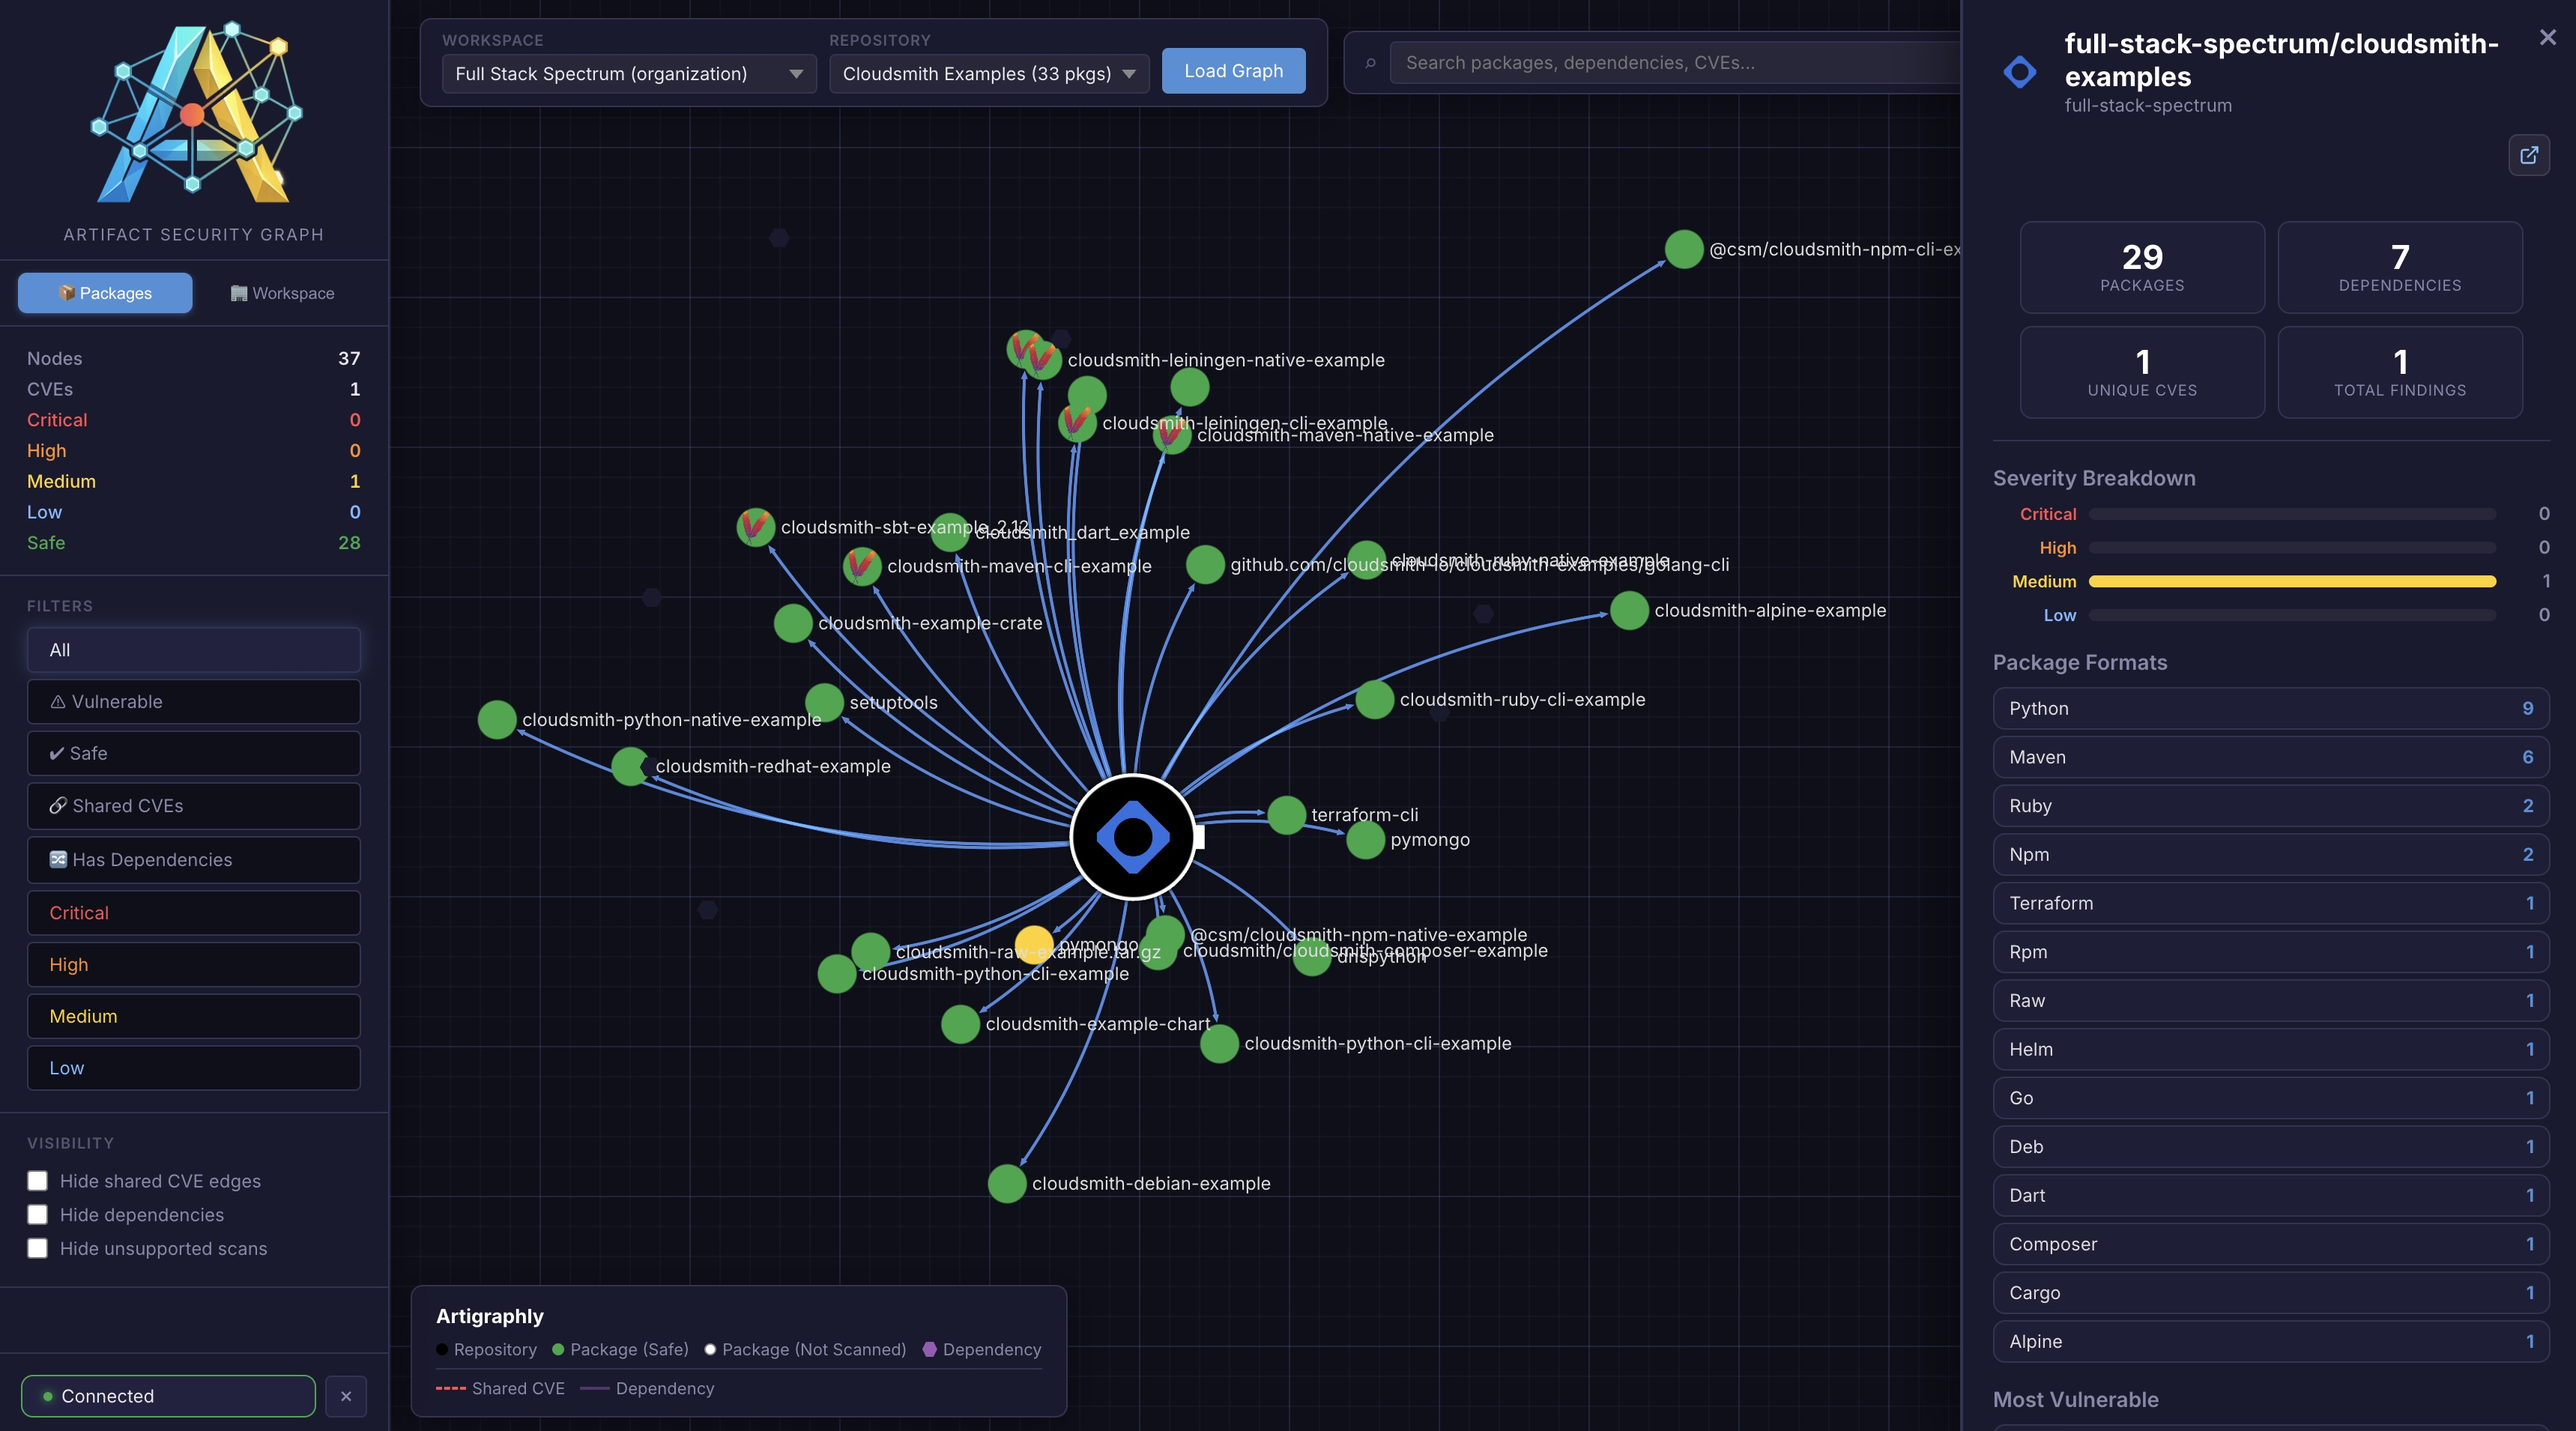
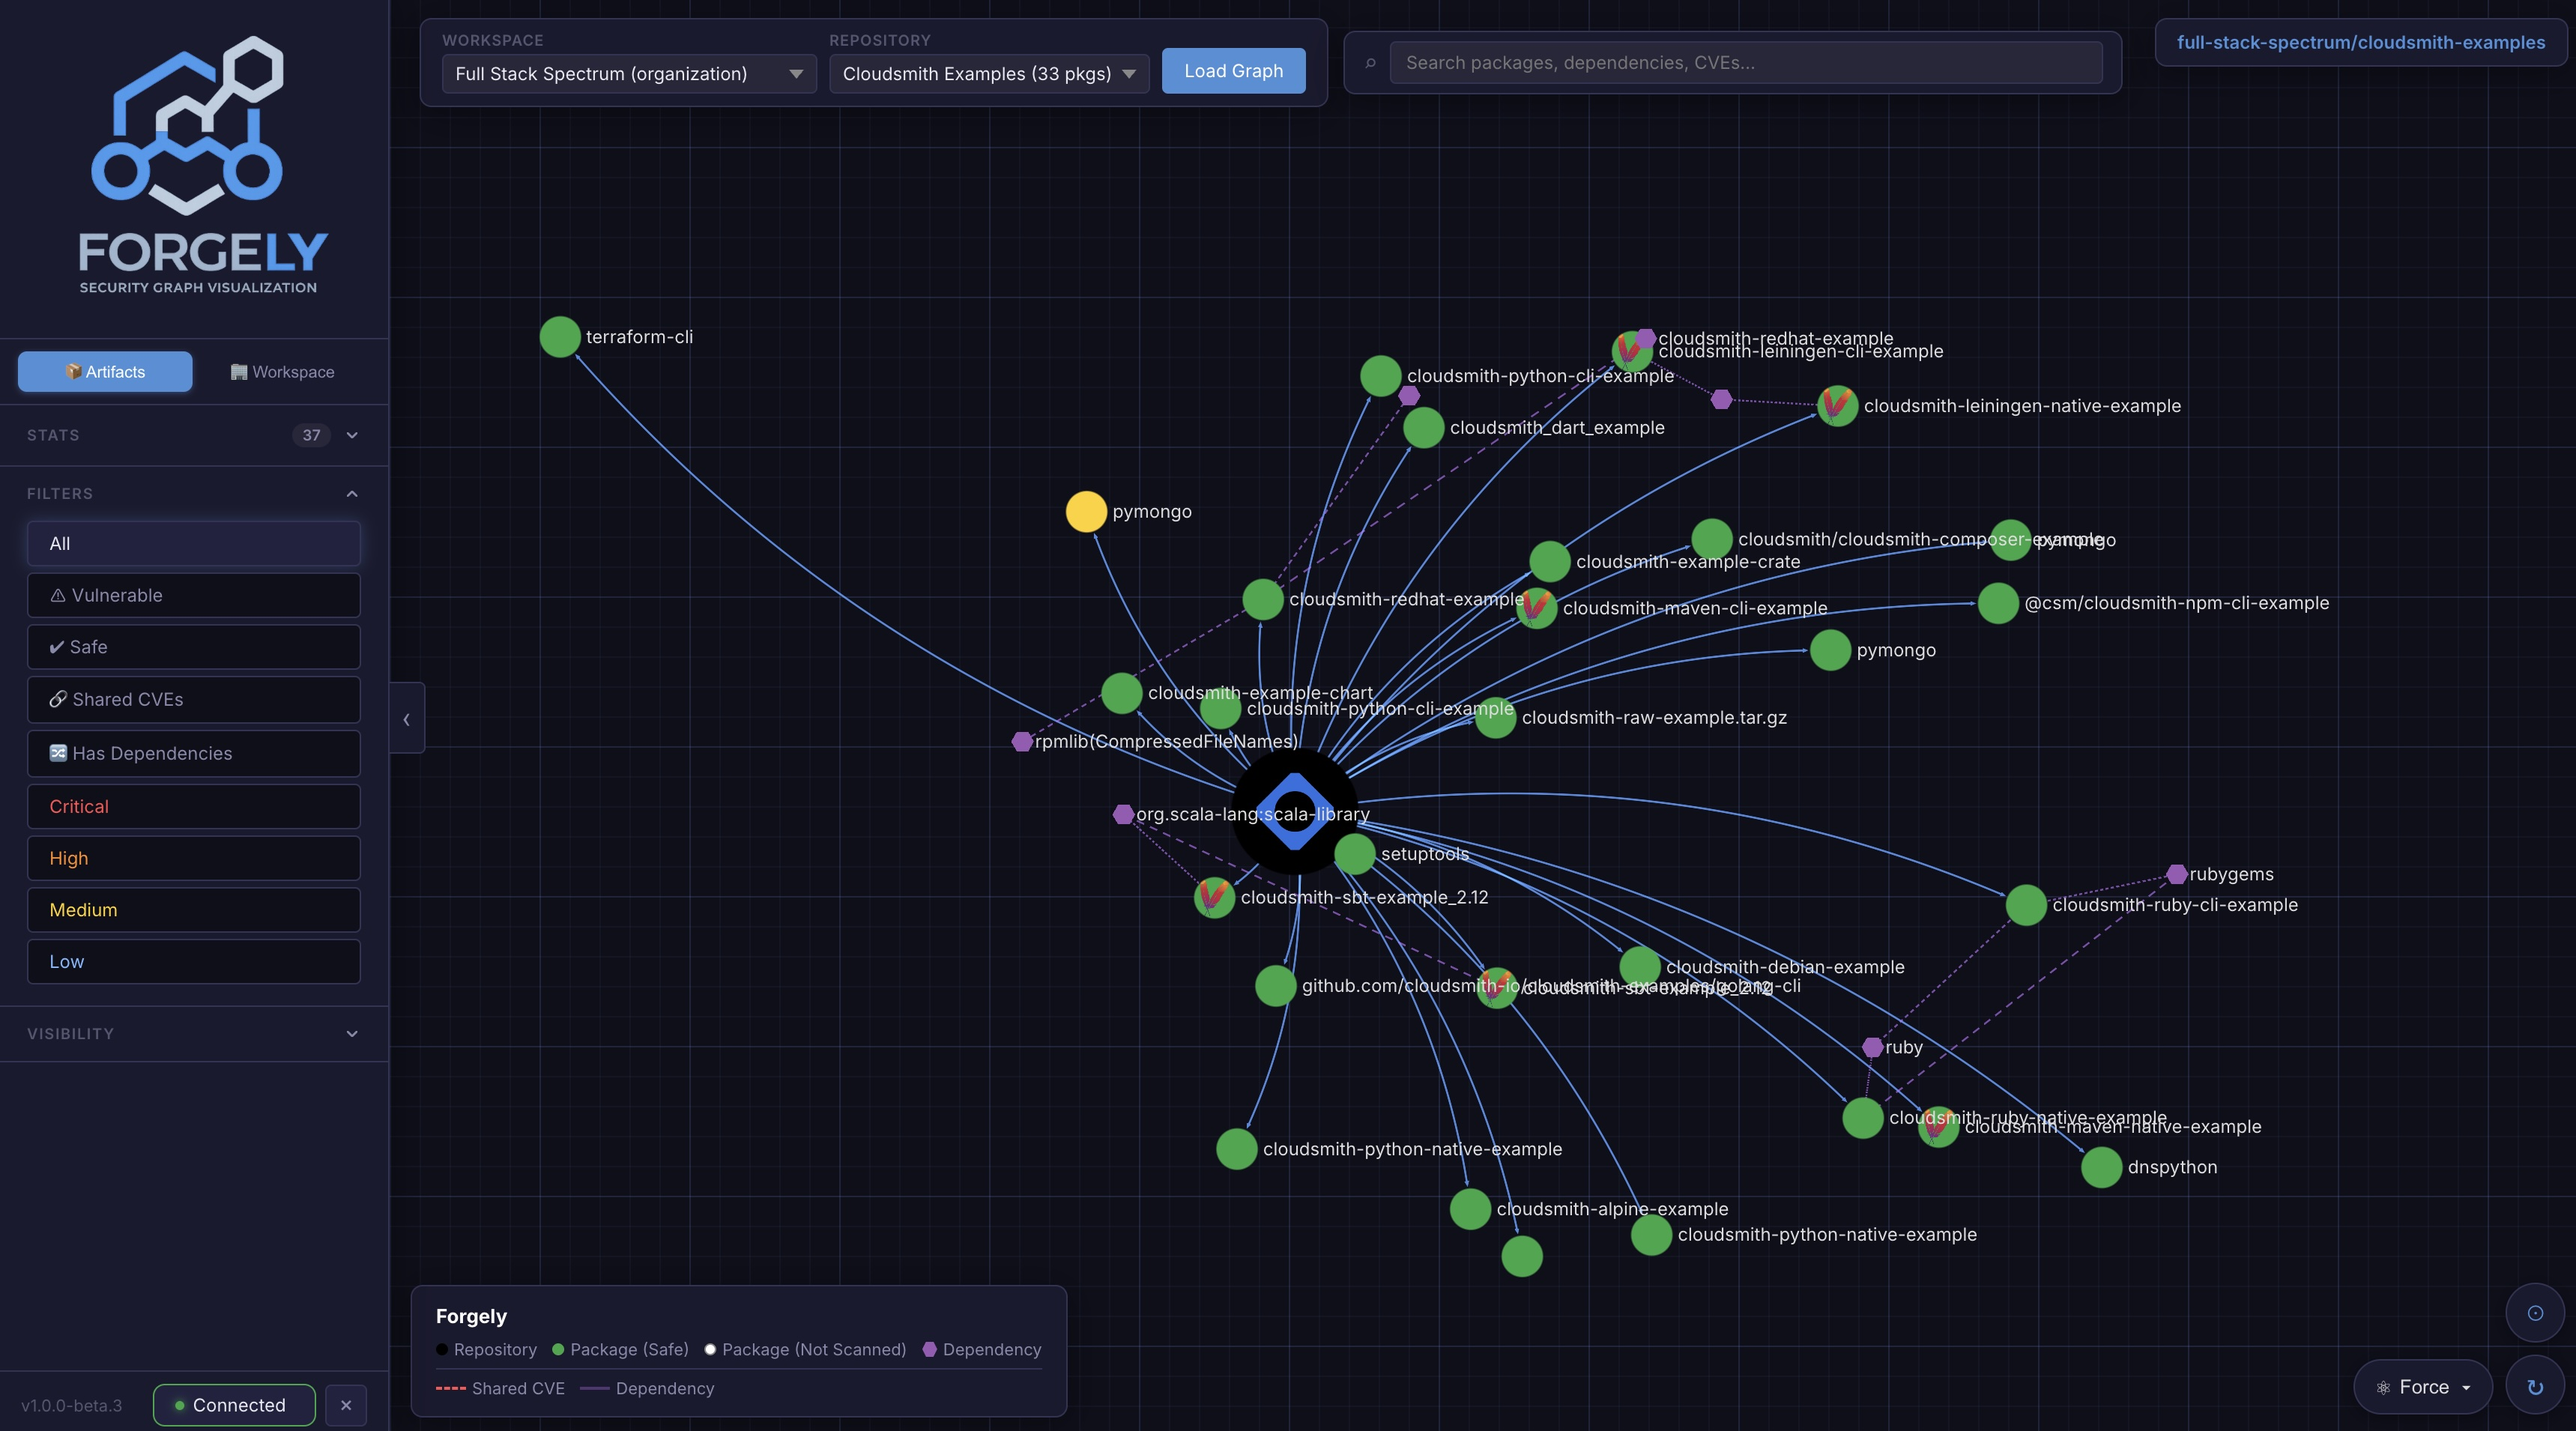
readme update

diff --git a/README.md b/README.md
@@ -8,13 +8,18 @@
 
 **Forgely** is a visualization engine for Cloudsmith artifact repositories. It maps packages, dependencies, and vulnerabilities into interactive, color-coded graphs — helping DevOps and Security teams identify blast radii and transitive risks at a glance.
 
-![Example – Packages Overview](assets/readme/example1.jpg)
+![Example – Artifacts Overview](assets/readme/example1.jpg)
 
-![Example – Packages Inspect](assets/readme/example2.jpg)
+![Example – Critical Artifacts](assets/readme/example2.jpg)
 
-![Example – Workspace Overview](assets/readme/example3.jpg)
+![Example – Artifacts Inspect](assets/readme/example3.jpg)
 
-![Example – Workspace Inspect](assets/readme/example4.jpg)
+![Example – Repo Inspect](assets/readme/example4.jpg)
+
+![Example – Workspace Overview](assets/readme/example5.jpg)
+
+![Example – User Inspect](assets/readme/example6.jpg)
+
 
 ## Architecture
 
